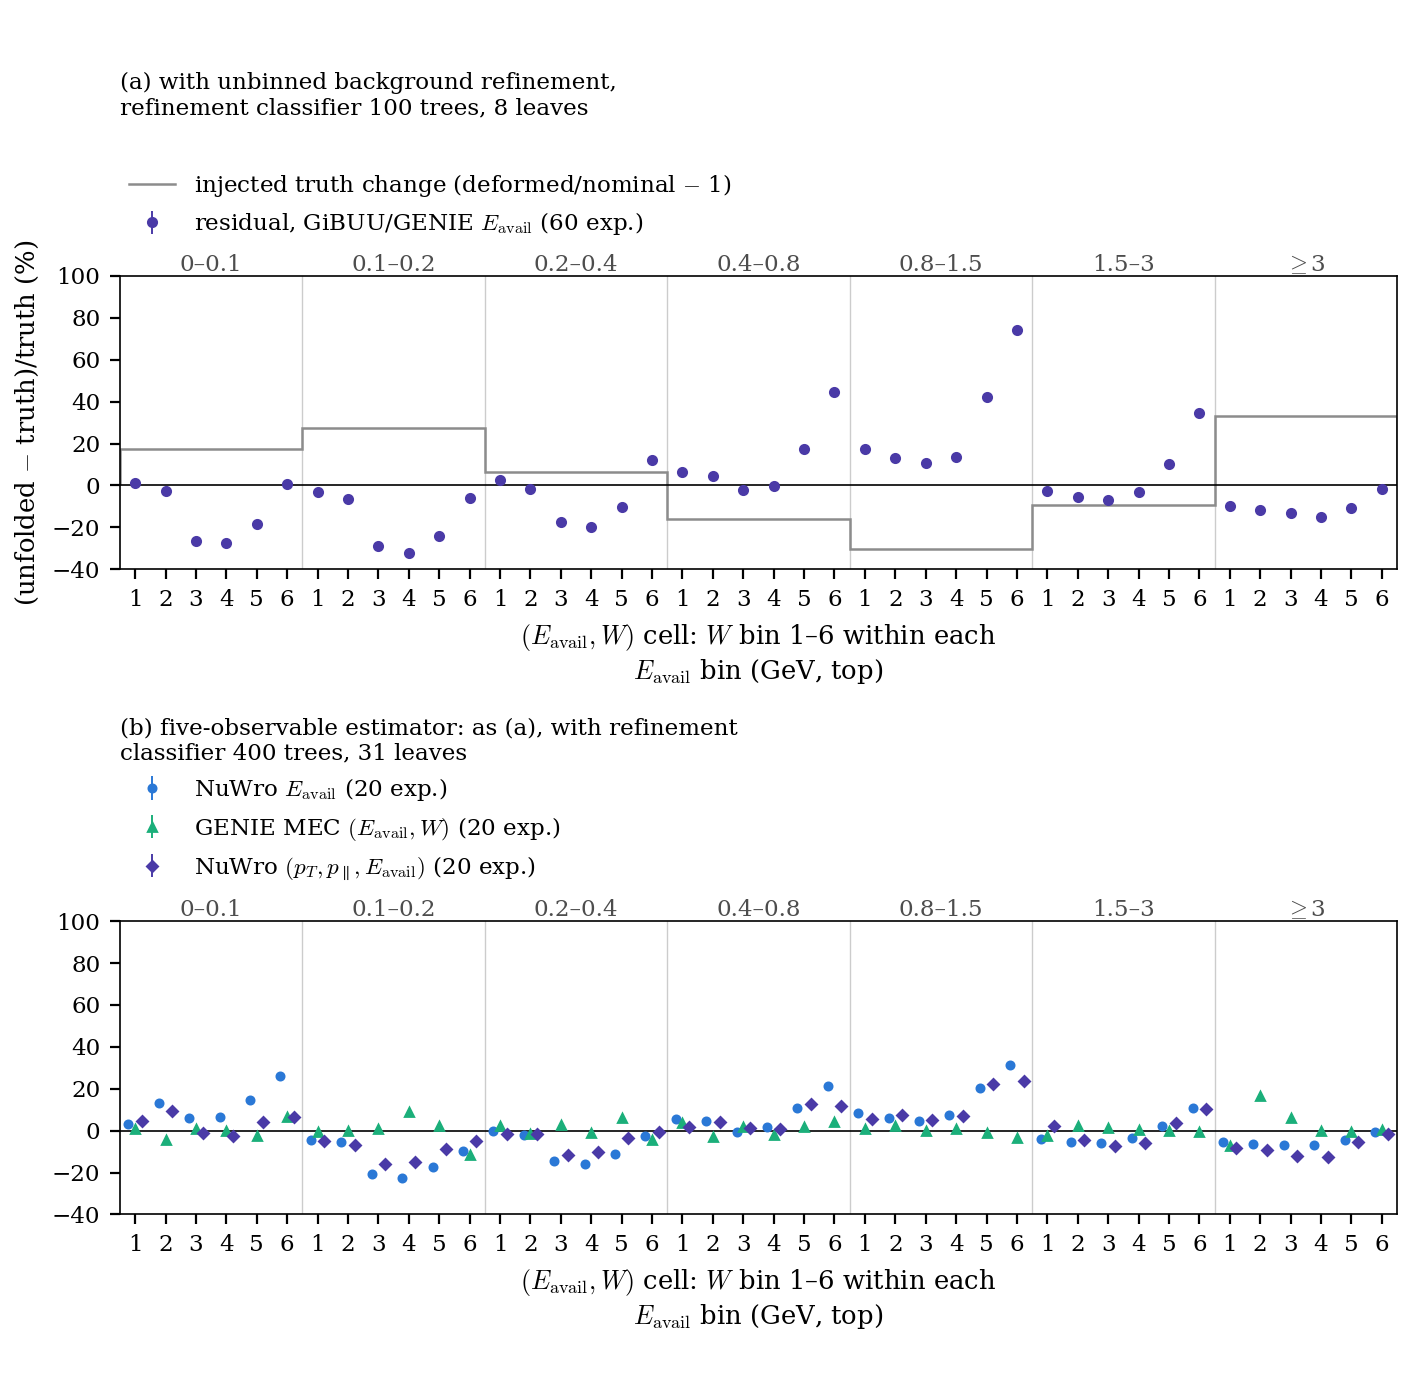
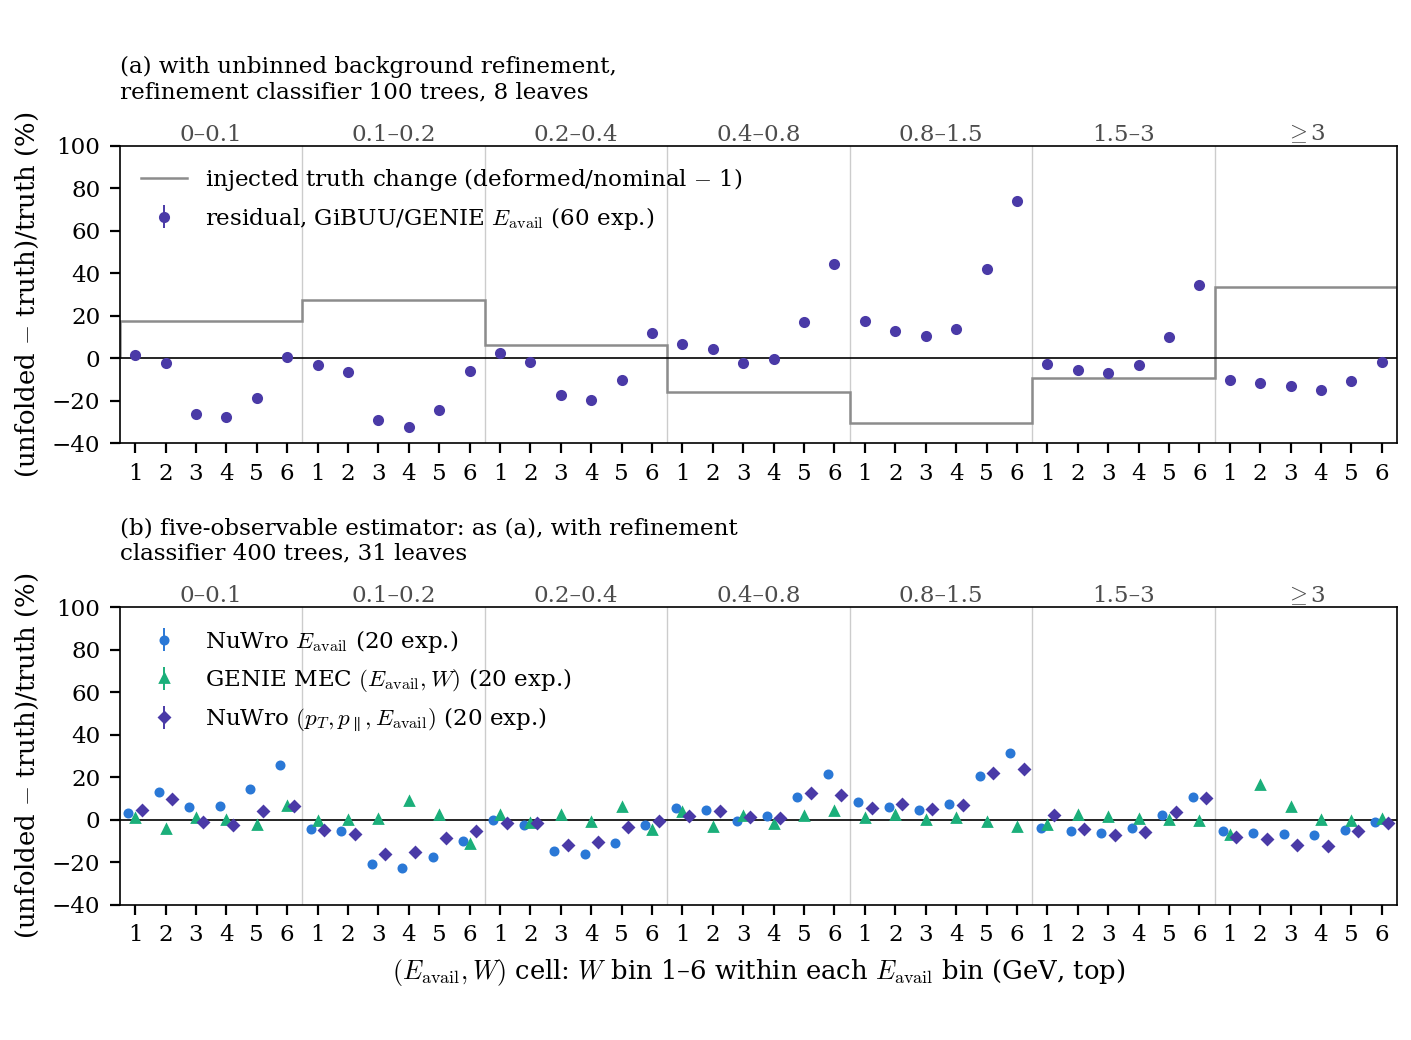
[figures] Compact the deformation panels without shrinking their labels
Checks: 21 passed

diff --git a/docs/analysis-note/figures/methods_m3/fig_m3_deformation.py b/docs/analysis-note/figures/methods_m3/fig_m3_deformation.py
@@ -86,8 +86,8 @@ def main() -> None:
                          "legend.fontsize": 8.3})
     # Layout (methods rewrite, fix round 1, REVIEW-1 P3): the nominal-truth row is not drawn; its maxima are in the
     # numbers file and the caption (the (d) nominal squares are Fig. 2(a)'s refinement arm).
-    fig, (a_ng, a_rw) = plt.subplots(2, 1, figsize=(508 / 72, 6.9), sharex=True)
-    fig.subplots_adjust(left=0.085, right=0.99, top=0.80, bottom=0.12, hspace=1.2)
+    fig, (a_ng, a_rw) = plt.subplots(2, 1, figsize=(508 / 72, 5.2), sharex=True)
+    fig.subplots_adjust(left=0.085, right=0.99, top=0.86, bottom=0.13, hspace=0.55)
     x = np.arange(mc.N_EW)
     for ax in (a_ng, a_rw):
         ax.axhline(0, color="k", lw=0.6)
@@ -108,17 +108,17 @@ def main() -> None:
     for ax in (a_ng, a_rw):
         ax.set_ylim(-40, 100)
         ax.set_yticks(np.arange(-40, 101, 20))
-    a_ng.legend(loc="lower left", bbox_to_anchor=(0, 1.10), borderaxespad=0, frameon=False)
-    a_rw.legend(loc="lower left", bbox_to_anchor=(0, 1.10), borderaxespad=0, frameon=False)
-    a_ng.set_ylabel("(unfolded $-$ truth)/truth (%)")
-    a_rw.tick_params(labelleft=True)
+    a_ng.legend(loc="upper left", frameon=False)
+    a_rw.legend(loc="upper left", frameon=False)
     for ax in (a_ng, a_rw):
-        ax.set_xlabel(r"$(E_{\rm avail},W)$ cell: $W$ bin 1–6 within each" + "\n"
-                      + r"$E_{\rm avail}$ bin (GeV, top)", fontsize=9.3)
+        ax.set_ylabel("(unfolded $-$ truth)/truth (%)")
+    a_rw.tick_params(labelleft=True)
+    a_rw.set_xlabel(r"$(E_{\rm avail},W)$ cell: $W$ bin 1–6 within each $E_{\rm avail}$ bin (GeV, top)",
+                    fontsize=9.3)
     a_ng.set_title("(a) with unbinned background refinement,\nrefinement classifier 100 trees, 8 leaves",
-                   fontsize=8.3, loc="left", y=1.55, pad=0)
+                   fontsize=8.3, loc="left", y=1.16, pad=0)
     a_rw.set_title("(b) five-observable estimator: as (a), with refinement\nclassifier 400 trees, 31 leaves",
-                   fontsize=8.3, loc="left", y=1.55, pad=0)
+                   fontsize=8.3, loc="left", y=1.16, pad=0)
     # (X5 Gm9: the in-plot estimator header moved to the article caption.)
     mc.save(fig, a.outdir, "m3_fig2_deformation")
     (a.outdir / "m3_fig2_deformation_numbers.json").write_text(json.dumps(nums, indent=1) + "\n")

diff --git a/docs/analysis-note/figures/methods_short/presentation/deformation-repair/REPORT.md b/docs/analysis-note/figures/methods_short/presentation/deformation-repair/REPORT.md
@@ -1,0 +1,65 @@
+# Compact deformation figure
+
+Baseline: 3045fcbb5, whose producer and figure layout are unchanged from d53af941a.
+Only the deformation producer and its regenerated paper-only PDF/PNG change, plus
+this verification record. Captions, manuscript sources and all data files are unchanged.
+
+## Layout and integration
+
+Use `figures/methods_short/m3_fig2_deformation.pdf` at textwidth, **508pt**.
+The figure canvas is 508 × 374.4pt rather than 508 × 496.8pt: 24.6% less height.
+Each panel now has its own y-axis label; the x-axis label is one line, only below
+panel (b). Both legends occupy the empty upper-left area inside their axes. Panel
+titles sit above their energy-bin headings. The decreased spacing preserves the
+height of the actual plotting regions and every authored font size. The existing
+caption applies without changes.
+
+## Data identity
+
+The producer checked the three committed input records against m3_common's SHA256
+pins and its plotting arrays against the pinned presentation_original_arrays.json.
+checks.json repeats these data-only pins and verifies that the input bytes are
+committed at the baseline. Both emitted arrays.json and numbers.json are byte-identical
+to the baseline, covering all plotted means, standard errors and injected changes.
+All 42 cells, offsets, axis limits and tick values are unchanged.
+
+The two estimator configurations are unchanged: panel (a) is the lower-capacity
+100-tree, 8-leaf refinement from the development record; panel (b) is the reported
+400-tree, 31-leaf refinement from the assessment record. Their distinction remains
+explicit in the titles and repaired caption.
+
+## Printed text and overlap checks
+
+The unchanged figtext.py measures each LTFigure's characters in full-paper before
+and after proofs. Both proofs use the repaired captions and the Figure 3 asset at
+508pt; the other figures retain their current inclusions. Raw measurements are in
+before-font-sizes.txt and after-font-sizes.txt.
+
+| Figure | Printed width (pt) | Median before → after (pt) | Maximum before → after (pt) |
+|---|---:|---:|---:|
+| 1 | 437 | 6.5 → 6.5 | 7.8 → 7.8 |
+| 2 | 201 | 4.8 → 4.8 | 5.7 → 5.7 |
+| 3 | 508 | 8.3 → 8.3 | 9.3 → 9.3 |
+| 4 | 508 | 8.3 → 8.3 | 9.3 → 9.3 |
+| 5 | 245 | 8.3 → 8.3 | 9.3 → 9.3 |
+| 6 | 508 | 8.6 → 8.6 | 9.3 → 9.3 |
+
+Captions measure 9.0pt. Figure 3's raw minimum remains 3.0pt because rotated glyphs
+are measured by their transformed geometry; its authored ticks/legends/titles are
+8.3pt and axis labels 9.3pt. Figures 1 and 2 remain below target: their regeneration
+is stopped at the separately reported estimator-input gap; this commit substitutes
+no operands or assets.
+
+The regenerated PNG and its inclusion in the full-paper PDF were inspected. No
+legend intersects the data, no axis label collides with ticks, and the panel titles,
+energy-bin headings and caption remain separated and unclipped. The panel (b) y-axis
+label and the single-line x-axis label are legible at the intended printed width.
+
+## Validation
+
+The original producer's numerical assertions pass, as does its exact frozen-array
+comparison. make_values_fived16.py --check passes 3811 values, two source-figure checks
+and ten listed-truth sentences. Both full-paper print proofs build successfully;
+the after log has no overfull box, undefined reference or oversized float. No new
+scientific computation was performed. Integration checks and standalone-note
+synchronization remain with the paper integrator.
